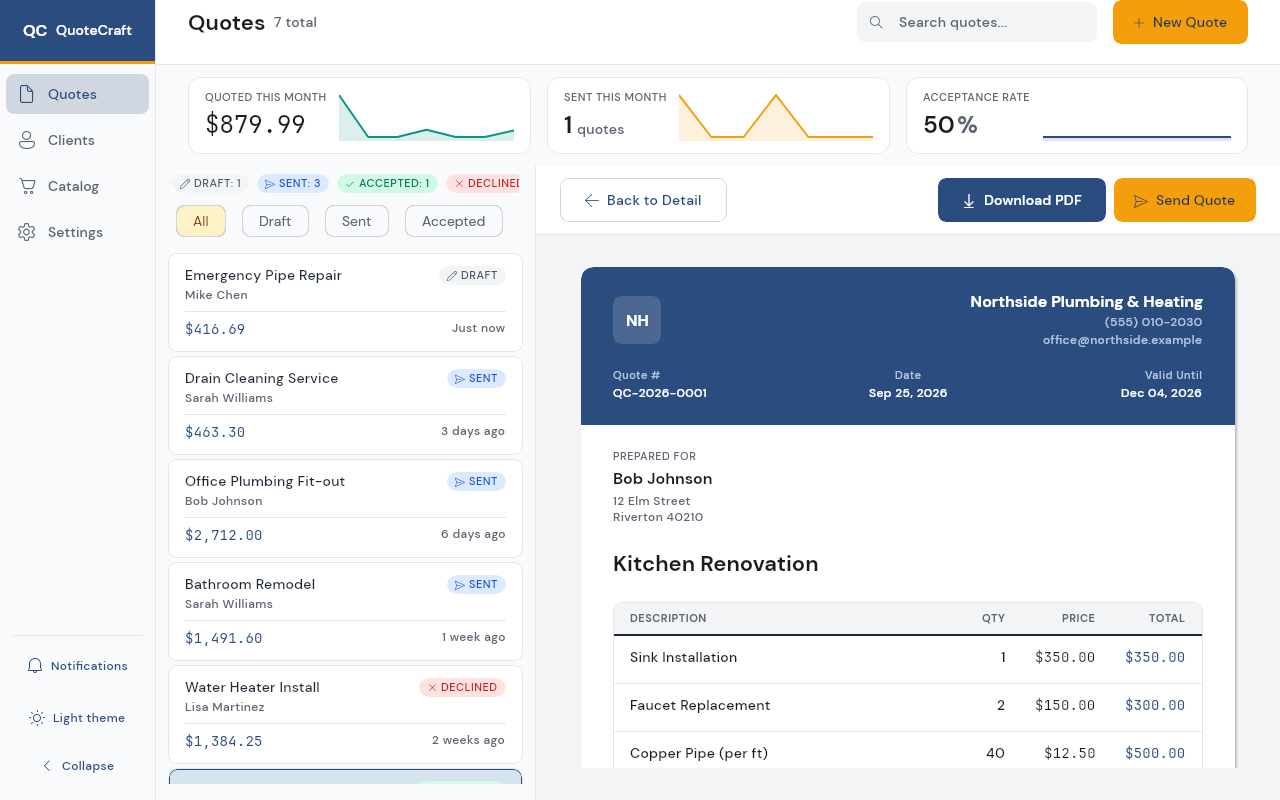
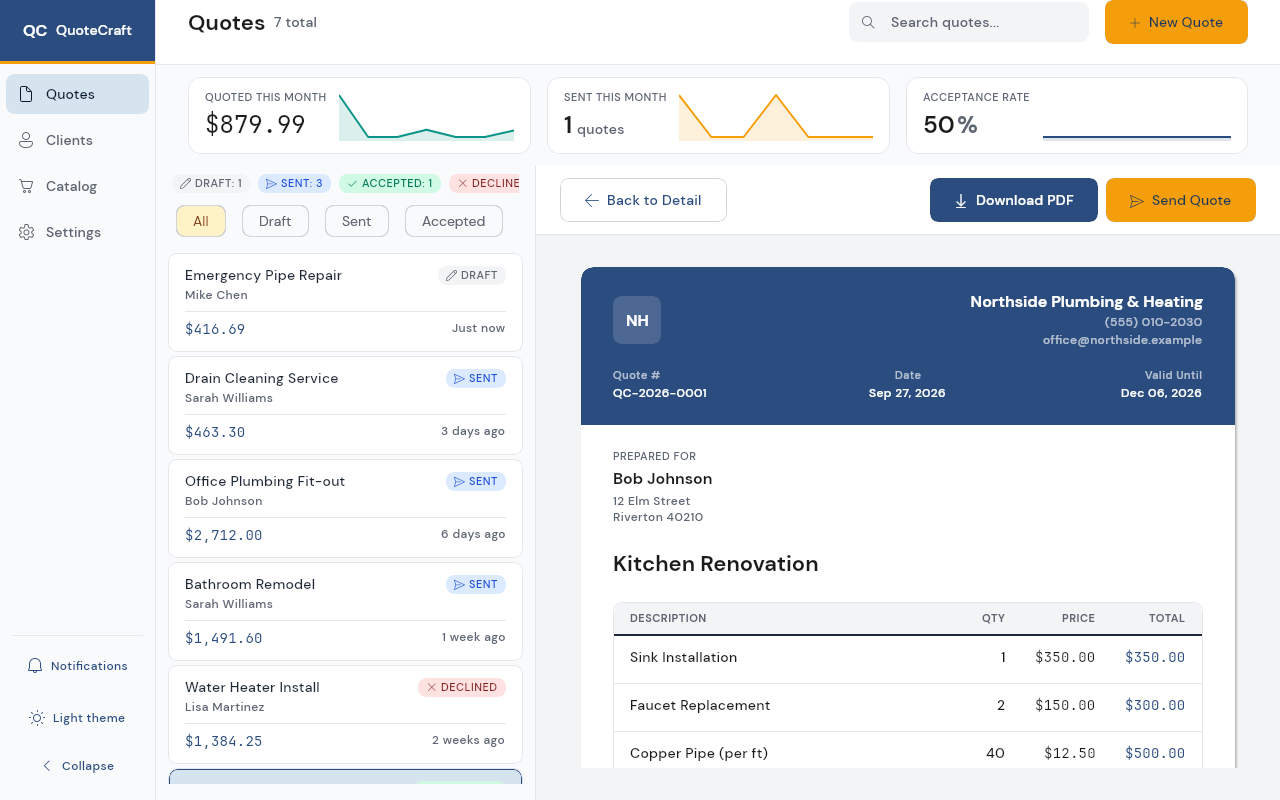
docs: the theme pass in the README, the agent context and D25
The README's design-system, structure and layout lines, and
.studiolive/agent-context.json, say where the look comes from now: the
palette file Studio's Themes tab edits, the role brushes, the semantic
styles, DM Sans as DefaultFontFamily, the theme's tokens, App.xaml's two
no-role status colours and the PDF's print colours. D25 records the
decision and its visible shifts; the handoff's dialog note is closed.
uno-sample.json is regenerated, and the quotes, preview and phone quote
screenshots are retaken (the editor's did not change).

Claude-Session: https://claude.ai/code/session_018xTsJQBTiLfieqJekJ23K3

diff --git a/README.md b/README.md
@@ -38,7 +38,7 @@ Debug desktop build, sample data (`--qc-seed=sample`), Light theme, 1280 × 800 
 - **Runtime:** .NET 10
 - **Renderer:** Skia
 - **UI:** WinUI / XAML with Uno Toolkit controls
-- **Design System:** Material Design 3 (Uno Material)
+- **Design System:** Material Design 3 through Uno.Themes (`MaterialToolkitTheme`): the brand palette in `Styles/ColorPaletteOverride.xaml` (the file Uno Platform Studio's Themes tab edits), role brushes, semantic text and control styles, DM Sans as the theme's `DefaultFontFamily`, and the theme's `Space*`, `Radius*` and `ControlHeight*` tokens
 - **Architecture:** MVUX (Model-View-Update-eXtended)
 - **Navigation:** Uno Navigation Extensions (region-based)
 - **Dependency Injection:** Microsoft.Extensions.Hosting
@@ -71,7 +71,7 @@ Debug desktop build, sample data (`--qc-seed=sample`), Light theme, 1280 × 800 
     ├── Models/                          # Data entities
     ├── Data/                            # SQLite database & repositories
     ├── Services/                        # PDF, email, sharing, feature gates, quote creation, status and expiry rules
-    ├── Styles/                          # Color palette, status colors, layout tokens (Layout.xaml)
+    ├── Styles/                          # The palette (ColorPaletteOverride.xaml), card styles, layout values with no theme token
     ├── Helpers/                         # Value converters & utilities
     ├── Controls/                        # Custom controls (sparkline, status pill)
     └── Assets/                          # Fonts (DM Sans, JetBrains Mono), icons
@@ -145,9 +145,12 @@ Every page uses the Uno Toolkit's `utu:Responsive` with the default breakpoints:
 | Wide | 800 to 1080 | side rail | one pane, stat cards above the list | one column, capped and centred |
 | Widest | 1080 and up | side rail | list and detail side by side, page capped at 1600 px | Settings adds the quote preview from 1400 px |
 
-Spacing, insets, widths, radii and touch sizes are tokens in `QuoteCraft/Styles/Layout.xaml`; colours are theme
-resources (`Styles/ColorPaletteOverride.xaml`, `Styles/StatusColors.xaml`, `App.xaml`). Screenshots of each page at
-360, 599, 600, 800, 1080 and 1920 px in Light and Dark are in [docs/evidence](docs/evidence).
+The look comes from the Material theme. Colours are the palette's roles (`Styles/ColorPaletteOverride.xaml`, Light and
+Dark), used through their brushes; the two status colours with no role (accepted and sent) are App.xaml's own Light and
+Default brushes. Spacing, radii and control sizes are the theme's `Space*`, `Radius*` and `ControlHeight*` tokens;
+`QuoteCraft/Styles/Layout.xaml` keeps only what no token says (two-axis insets, page frames, widths, the 1400 px split).
+The PDF prints in fixed colours (`Services/PrintColors.cs`). Screenshots of each page at 360, 599, 600, 800, 1080 and
+1920 px in Light and Dark are in [docs/evidence](docs/evidence) (before the theme pass).
 
 ## Local-first, with optional sign-in and billing
 

diff --git a/docs/DECISIONS-production-readiness.md b/docs/DECISIONS-production-readiness.md
@@ -525,3 +525,34 @@ relative paths can be used instead. If they can, the URLs become `icon.png` and 
 
 Also in the file: `showcase.requires` lists only an email app (Send opens a mailto link). Supabase sign-in and Stripe
 billing are left out: the app runs fully without them and hides them (D3).
+
+# Theme pass (studio branch, 2026-11-06)
+
+## D25. The look comes from Uno.Themes: palette, role brushes, semantic styles and tokens (owner rule, 2026-11-05)
+
+Decision: QuoteCraft keeps Material (`MaterialToolkitTheme`) and takes its whole look from it, so Uno Platform Studio's
+Themes tab drives the app.
+
+- Colours: the brand's are only in `Styles/ColorPaletteOverride.xaml` (the theme's `Colors`, Light and Dark). Pages,
+  cards and dialogs use the role brushes. The slate band is `PrimaryBrush`/`OnPrimaryBrush` under
+  `RequestedTheme="Light"` (the design keeps it the same in both modes); the amber call to action is the filled button
+  on the Secondary role, whose Dark value is now the same amber, with `OnSecondary` #1A365D in both modes. Status
+  pills: Draft and Expired `SurfaceVariant`, Viewed `SecondaryContainer`, Declined `ErrorContainer`; Accepted (Success)
+  and Sent have no role and are App.xaml's only Light and Default brushes. `BrandColors.xaml` and `StatusColors.xaml`
+  are gone.
+- Type: DM Sans is the theme's `DefaultFontFamily`; JetBrains Mono stays an app key for figures.
+- Spacing, radius, sizes: `Space*`, `Radius*CornerRadius`, `ControlHeight*`, `IconSize*`, `TouchTargetMinSize`
+  (measured: `SpaceN00` = N × 8 px, `RadiusN00` = N × 4 px); `DefaultSpacing="8"` and `DefaultCornerRadius="4"` on the
+  theme. `Styles/Layout.xaml` keeps what no token says.
+- The PDF keeps print colours (`Services/PrintColors.cs`): paper does not follow Dark mode. It is the theme gate's one
+  remaining finding.
+- Dialogs follow the theme: `AppDialogStyle` gives the surface through ThemeResource (Material's dialog style uses a
+  StaticResource), and each dialog takes the window's theme (`Helpers/DialogTheme`).
+
+Reason: an app's own colour, spacing and radius keys outrank the theme, so Studio's palette edits did not reach the
+screen (Cargo, 2026-11-05); the owner's rule is that samples use Uno.Themes and the libraries' resources.
+
+Tradeoff: small visible shifts. The selected rail item is the `PrimaryContainer` pair (its label darker in Light);
+Declined in Dark is the brighter `ErrorContainer`; table stripes are `BackgroundBrush`; the band's gradient is solid;
+the accent button takes the theme's padding (8 px wider); icons 18 → 16, 20 → 24, 36 → 32; Settings' section gap
+28 → 24. The status pill keeps an 8 px radius: `RadiusFull` draws an oval on Skia.

diff --git a/HANDOFF.md b/HANDOFF.md
@@ -40,7 +40,7 @@ element), `--qc-fault=load` (the database fails for the first 20 s). Under Xvfb 
 ## Open
 
 - Owner: D17 to D20 and D22 to D24 are proposed (D23 the custom icon, D24 the `.studiolive` URLs).
-- Dialogs are drawn Light in the Dark theme (found in A pass 2, outside its closed scope); flyouts follow the theme.
+- Dialogs follow the theme on the `studio` branch (theme pass, D25); flyouts follow it too.
 - A photo opens at most 560 px wide (Material's dialog); a full-window viewer would need a page outside the dialogs
   (D22).
 - `ISyncService` is registered and never resolved: D8 keeps `SyncService` for the sync pass.
